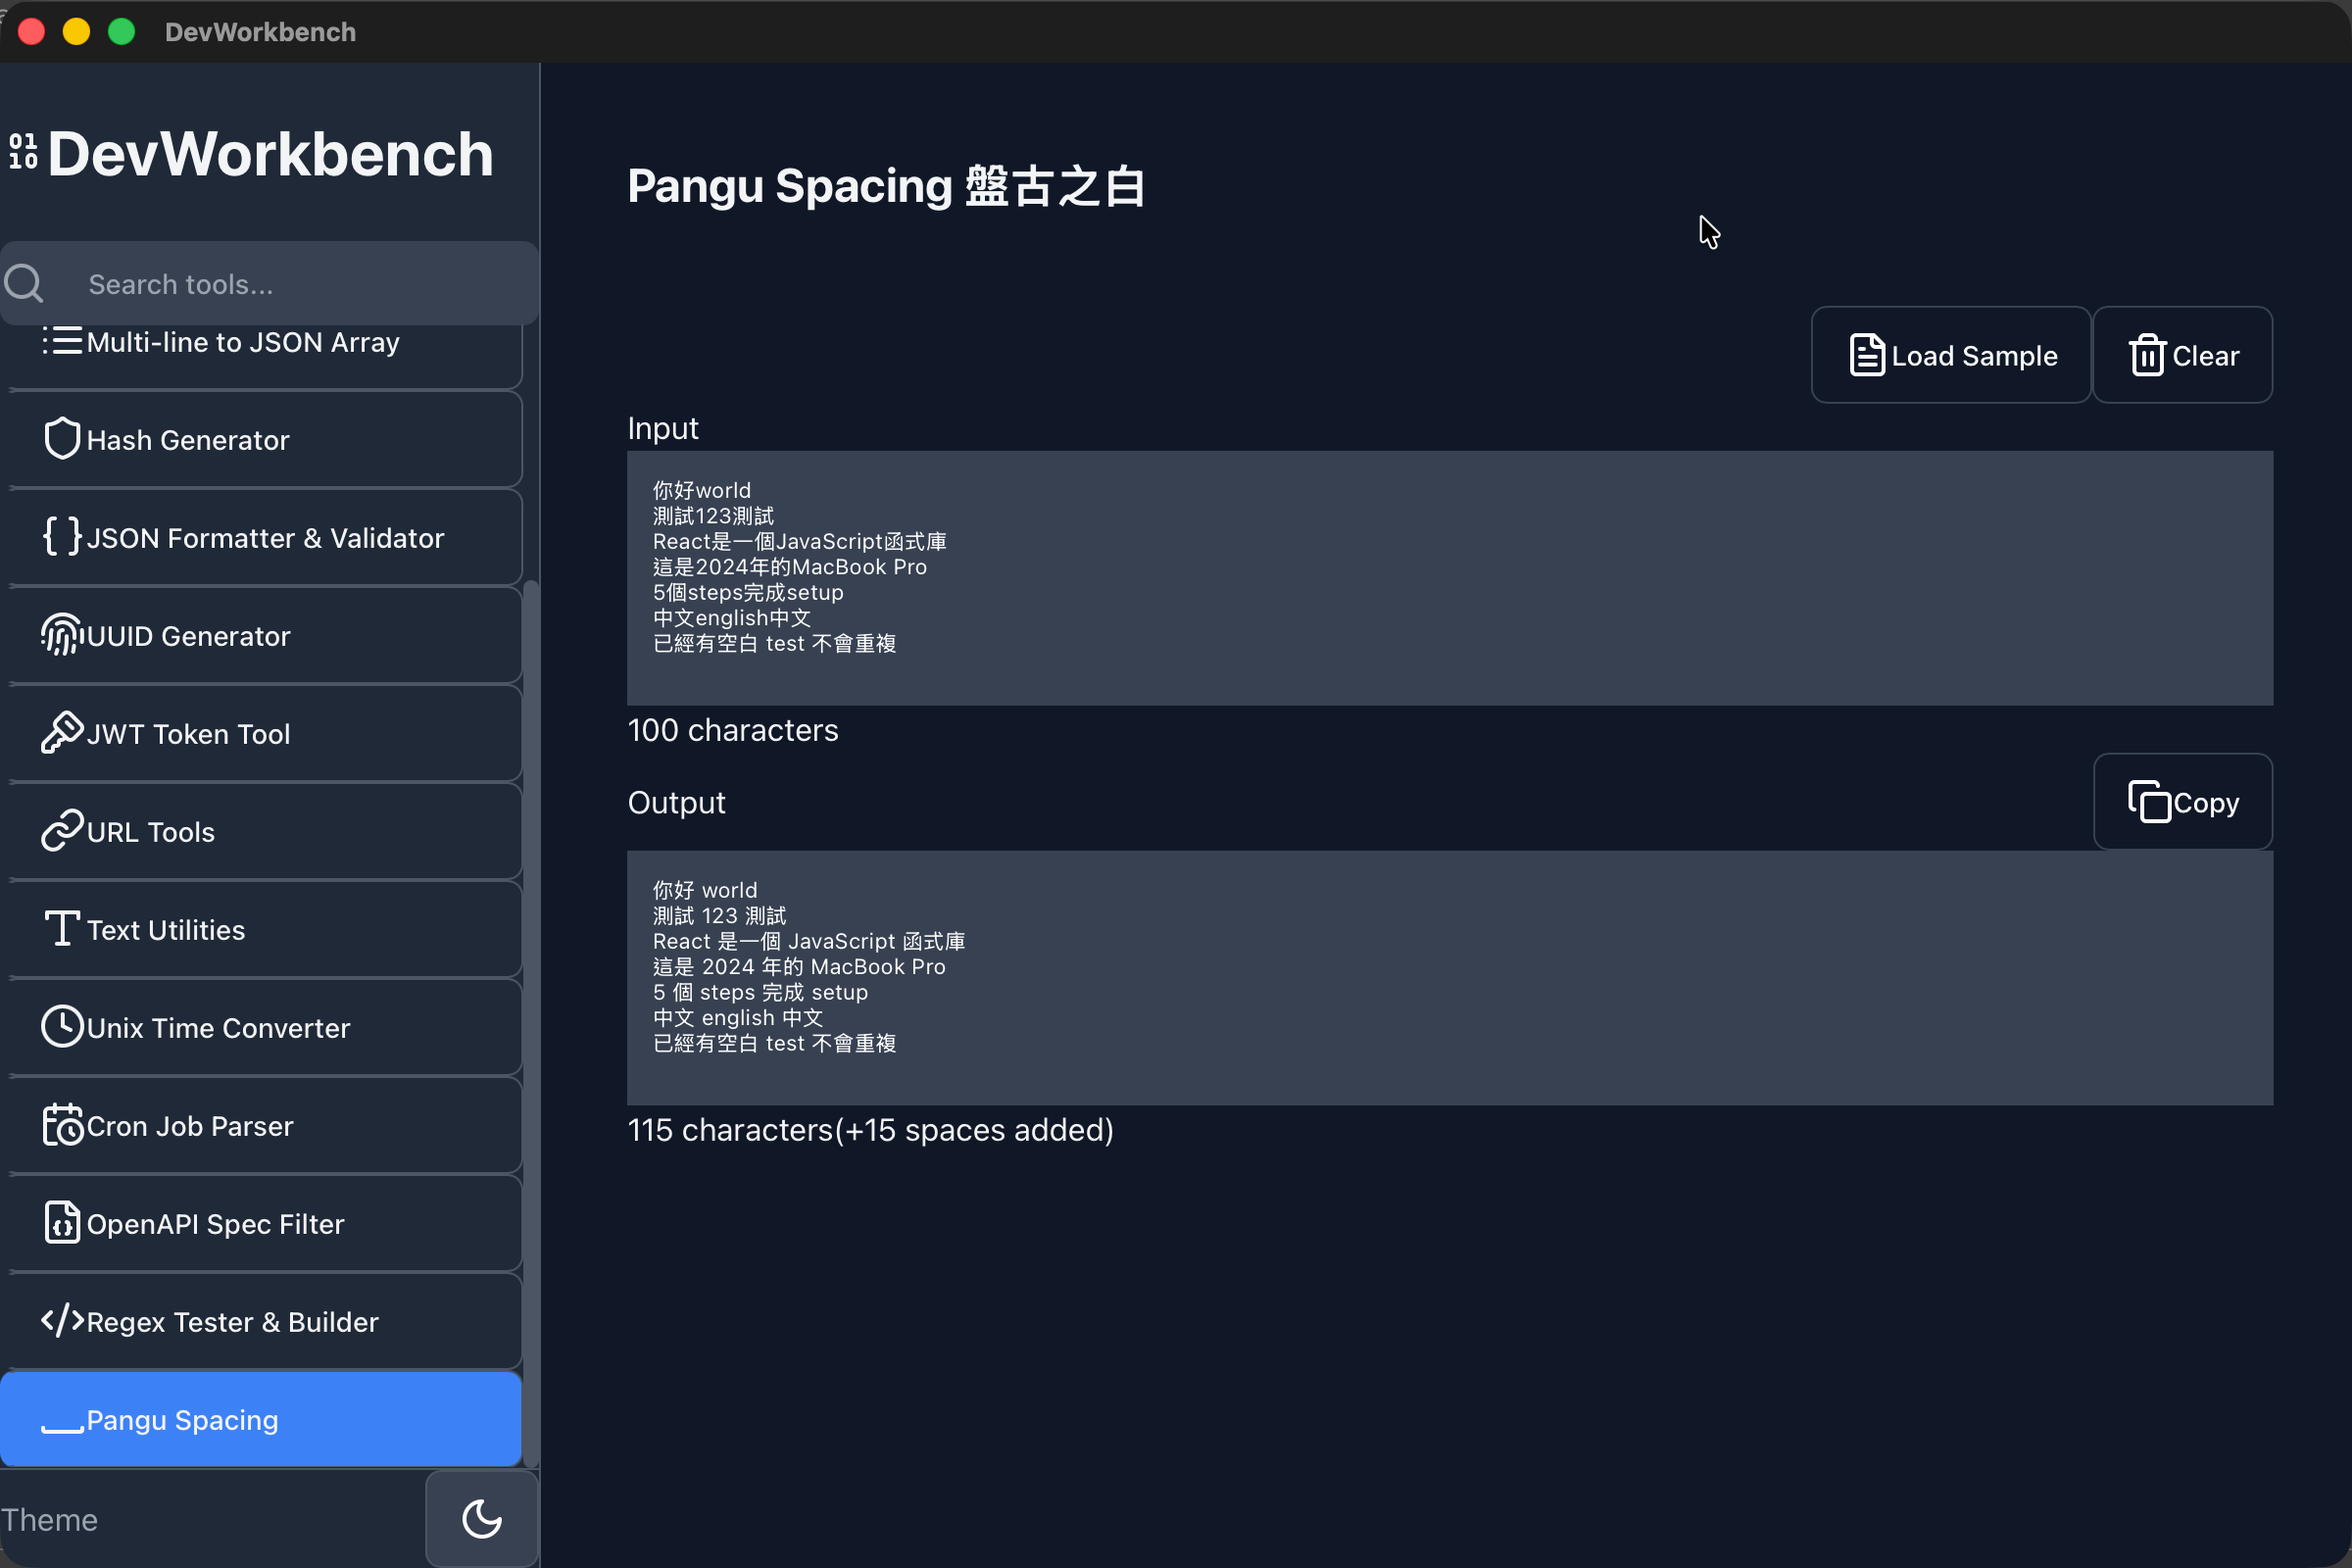
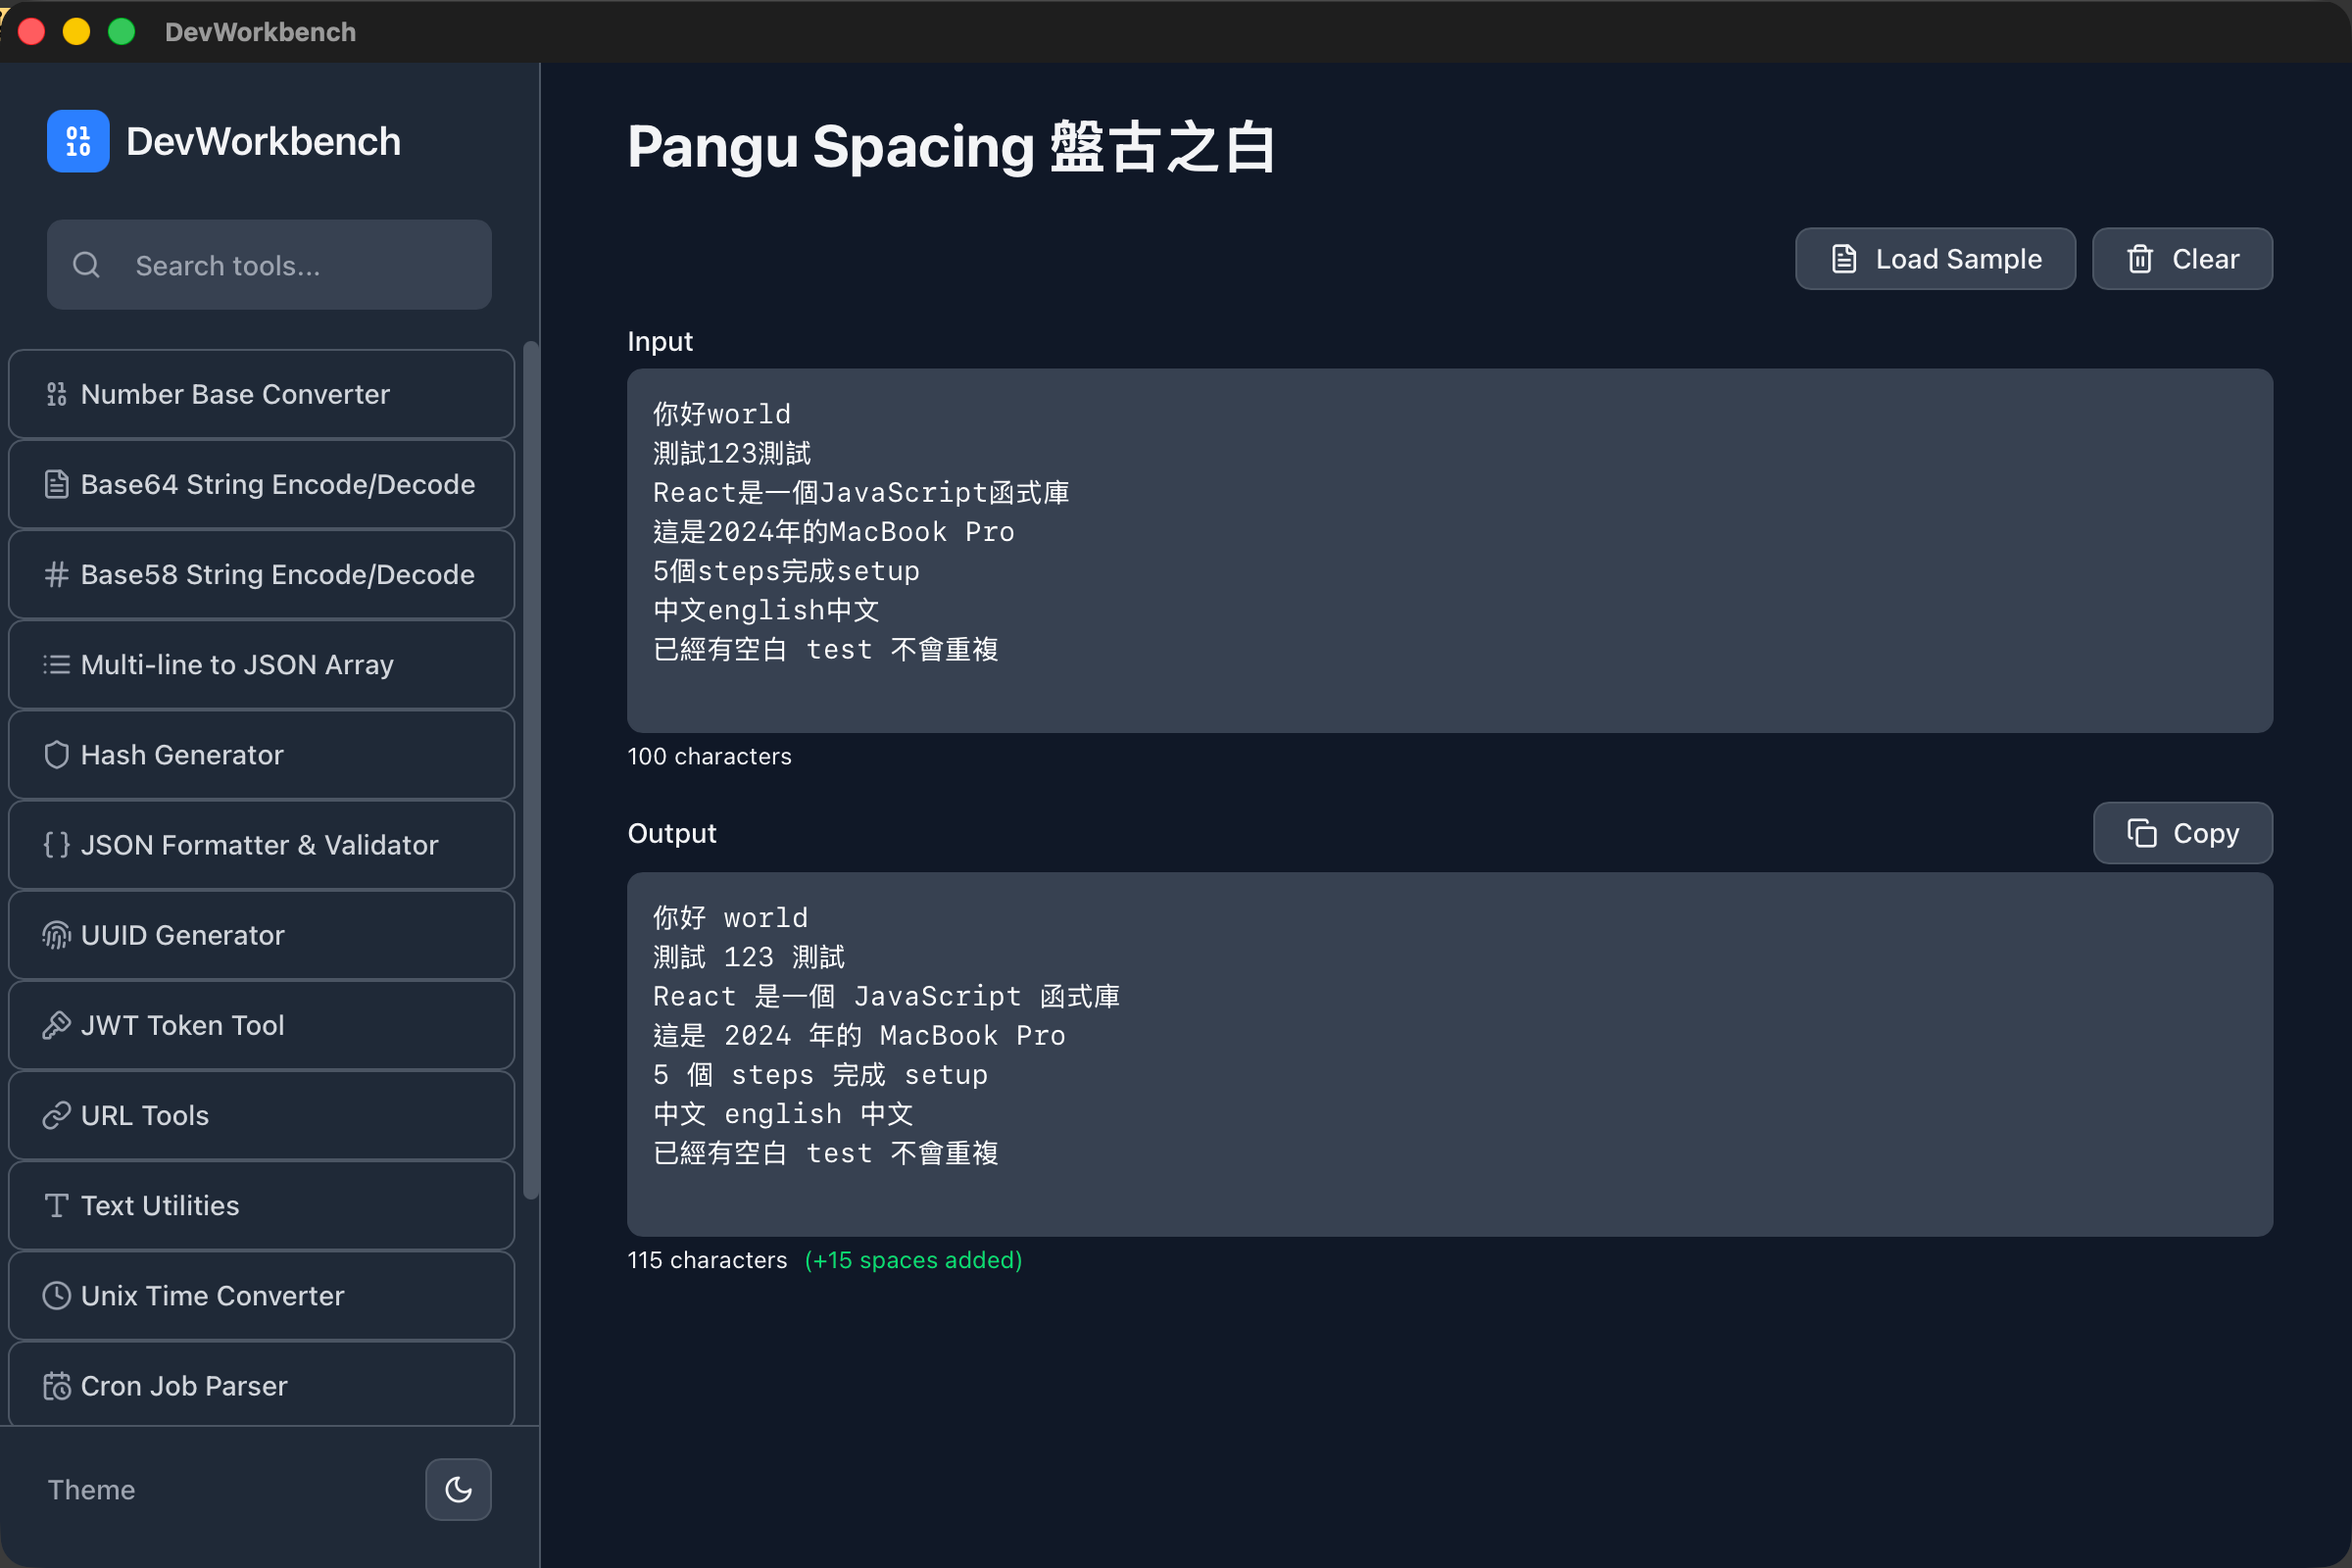
fix: Migrate to Tailwind v4 syntax and optimize sidebar UI
- Update styles.css to use Tailwind v4 @import syntax
- Move custom utility classes into @layer utilities
- Simplify sidebar menu item styling (remove borders, reduce padding)
- Fix Theme icon not displaying (add shrink-0 to SVG)
- Use inline styles for reliable selected state background color
- Update Pangu Spacing screenshot

Changed region(s): [[0.0, 0.0625, 0.9688, 1.0], [0.25, 0.0625, 0.5312, 0.1562], [0.7188, 0.125, 0.9688, 0.1875]]

diff --git a/src/App.tsx b/src/App.tsx
@@ -166,7 +166,7 @@ function ThemeToggle() {
       className="h-8 w-8"
       title={`Current theme: ${theme}`}
     >
-      <Icon className="h-4 w-4" />
+      <Icon className="h-4 w-4 shrink-0" />
     </Button>
   );
 }
@@ -272,7 +272,7 @@ function AppContent() {
         </div>
 
         {/* Tool List */}
-        <nav className="flex-1 overflow-y-auto px-6 py-2 space-y-1">
+        <nav className="flex-1 overflow-y-auto px-1 py-1">
           {filteredTools.map((tool) => {
             const IconComponent = tool.icon;
             const isSelected = selectedTool.id === tool.id;
@@ -280,30 +280,26 @@ function AppContent() {
               <button
                 key={tool.id}
                 onClick={() => setSelectedTool(tool)}
-                className={`w-full flex items-center space-x-3 px-4 py-2.5 rounded-lg text-sm font-medium transition-all duration-200 group ${
-                  isSelected 
-                    ? "text-white shadow-md" 
-                    : "text-gray-300 hover:text-gray-100"
-                }`}
+                className="w-full flex items-center gap-1 px-1 py-1 text-sm font-medium transition-all duration-200 group"
                 style={{
-                  backgroundColor: isSelected ? 'var(--color-blue-primary)' : 'transparent',
-                  borderLeft: isSelected ? '4px solid var(--color-blue-primary)' : '4px solid transparent'
+                  backgroundColor: isSelected ? '#2563eb' : 'transparent',
+                  color: isSelected ? '#fff' : '#d1d5db'
                 }}
                 onMouseEnter={(e) => {
                   if (!isSelected) {
-                    e.currentTarget.style.backgroundColor = 'var(--color-tertiary-bg)';
-                    e.currentTarget.style.borderLeftColor = 'var(--color-blue-primary)';
+                    e.currentTarget.style.backgroundColor = '#374151';
+                    e.currentTarget.style.color = '#fff';
                   }
                 }}
                 onMouseLeave={(e) => {
                   if (!isSelected) {
                     e.currentTarget.style.backgroundColor = 'transparent';
-                    e.currentTarget.style.borderLeftColor = 'transparent';
+                    e.currentTarget.style.color = '#d1d5db';
                   }
                 }}
               >
-                <IconComponent className={`w-5 h-5 ${
-                  isSelected ? "text-white" : "text-gray-400 group-hover:text-blue-400"
+                <IconComponent className={`w-4 h-4 shrink-0 ${
+                  isSelected ? "text-white" : "text-gray-400 group-hover:text-white"
                 }`} />
                 <span>{tool.name}</span>
               </button>

diff --git a/src/styles.css b/src/styles.css
@@ -1,6 +1,4 @@
-@tailwind base;
-@tailwind components;
-@tailwind utilities;
+@import "tailwindcss";
 
 @layer base {
   html, body {
@@ -55,20 +53,22 @@
   }
 }
 
-.bg-primary { background-color: var(--color-bg-primary); }
-.bg-secondary { background-color: var(--color-bg-secondary); }
-.bg-tertiary { background-color: var(--color-bg-tertiary); }
-.bg-hover { background-color: var(--color-bg-hover); }
-.text-primary { color: var(--color-text-primary); }
-.text-secondary { color: var(--color-text-secondary); }
-.text-tertiary { color: var(--color-text-tertiary); }
-.border-primary { border-color: var(--color-border); }
-.border-hover { border-color: var(--color-border-hover); }
+@layer utilities {
+  .bg-primary { background-color: var(--color-bg-primary); }
+  .bg-secondary { background-color: var(--color-bg-secondary); }
+  .bg-tertiary { background-color: var(--color-bg-tertiary); }
+  .bg-hover { background-color: var(--color-bg-hover); }
+  .text-primary { color: var(--color-text-primary); }
+  .text-secondary { color: var(--color-text-secondary); }
+  .text-tertiary { color: var(--color-text-tertiary); }
+  .border-primary { border-color: var(--color-border); }
+  .border-hover { border-color: var(--color-border-hover); }
 
-/* Ensure hover states work with Tailwind */
-.hover\:bg-secondary:hover { background-color: var(--color-bg-secondary); }
-.hover\:bg-tertiary:hover { background-color: var(--color-bg-tertiary); }
-.hover\:text-primary:hover { color: var(--color-text-primary); }
+  /* Ensure hover states work with Tailwind */
+  .hover\:bg-secondary:hover { background-color: var(--color-bg-secondary); }
+  .hover\:bg-tertiary:hover { background-color: var(--color-bg-tertiary); }
+  .hover\:text-primary:hover { color: var(--color-text-primary); }
+}
 
 /* Fix select dropdown styling for dark mode */
 @layer components {
